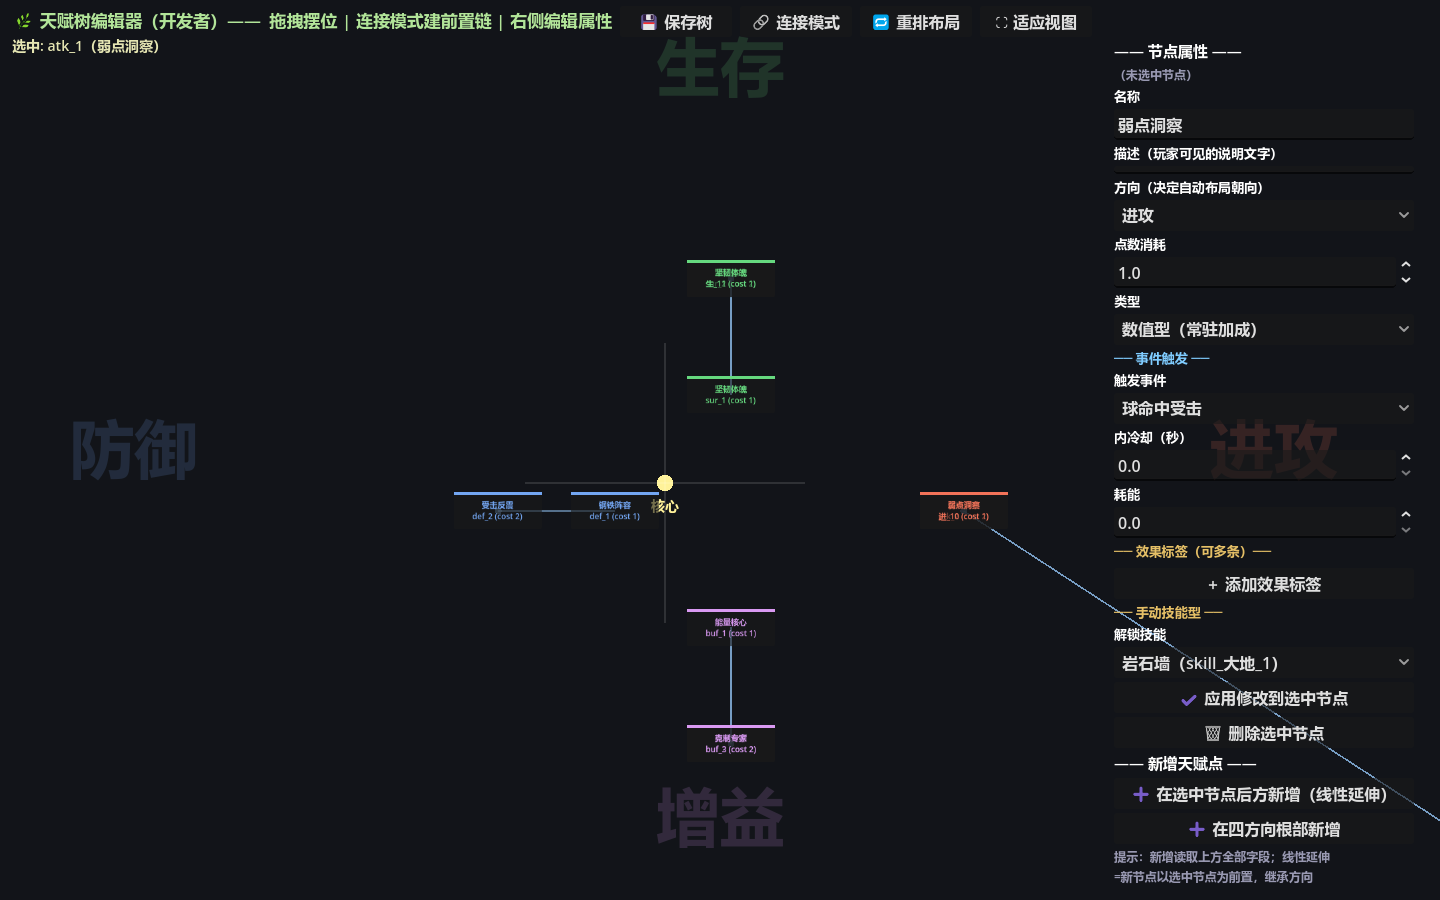
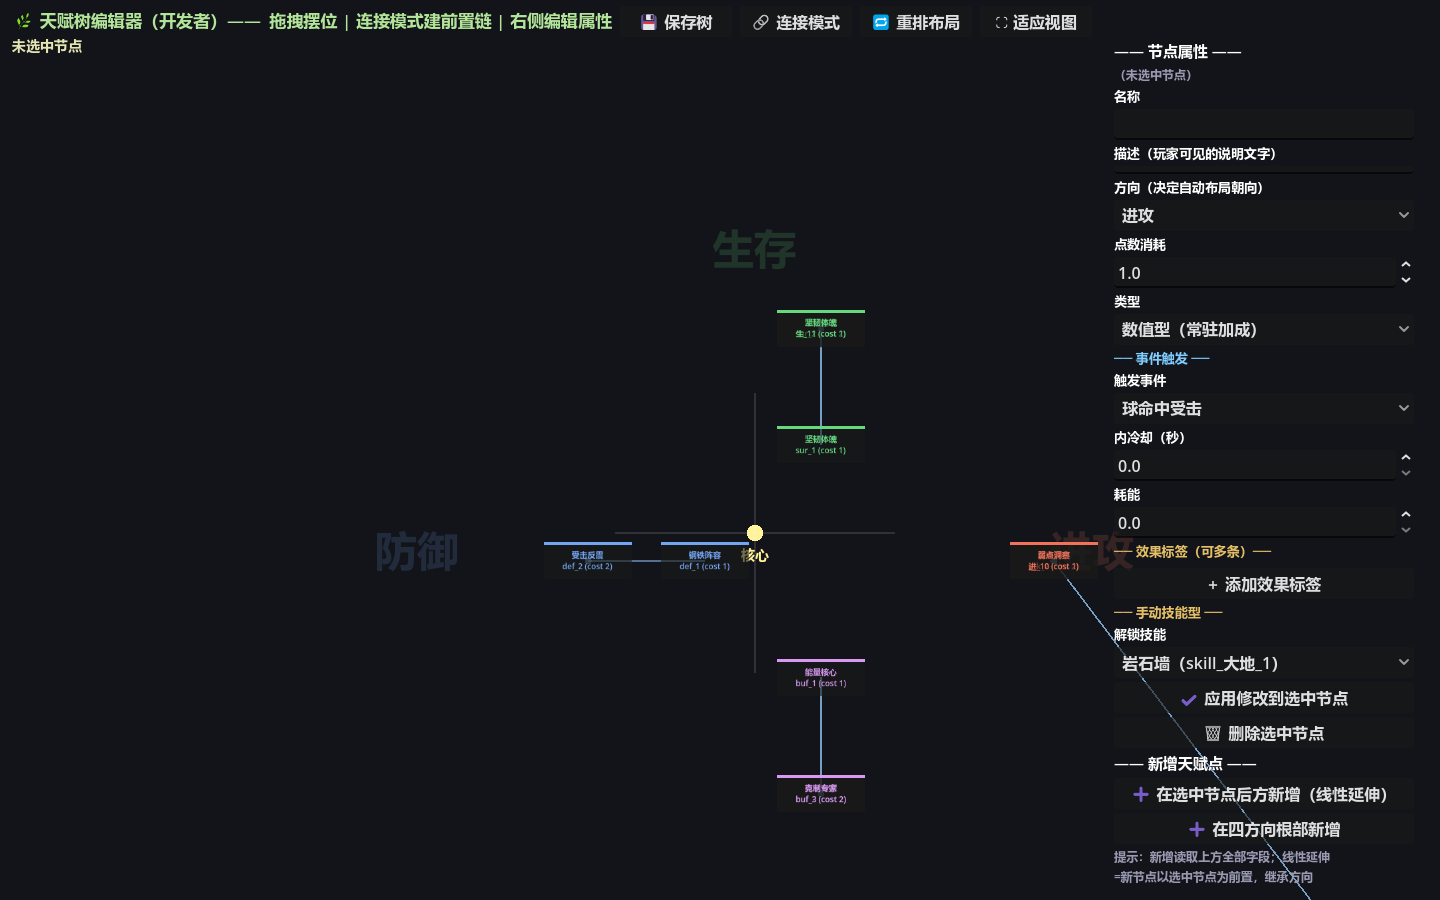
fix: 编辑器交互业界标准化
- 左键空白拖动=平移画布（此前无行为，用户误操作节点）
- 四方向大字/十字轴改世界层（随平移缩放整体移动，字号×zoom）
- 点空白松开=取消选中（面板同步清空）
- 合成输入六项验证 PASS

diff --git a/工作日志/2026-09-11.md b/工作日志/2026-09-11.md
@@ -390,3 +390,11 @@
 - 合成 InputEventMouseButton/Motion 走真实输入管线：拖节点（屏幕动+世界存）✅ / 中键平移 ✅ / 滚轮缩放 0.60→0.66 ✅ → RESULT: PASS
 - 修：统一输入改编辑器级 _input（先于 GUI 分发命中，Button 不再吞事件）；_send_wheel 被误粘截图退出块（测试脚本自身问题）
 - 根因链（主人报"鼠标不能拖拉"）：旧实现拖拽挂卡片 gui_input，画布全屏后事件被 Button 消费到不了画布 → 编辑器级 _input 命中测试根治
+
+### 40. 交互业界标准化（主人反馈：十字轴/大字不跟移、左键空白误操作节点瞬移）
+
+- **左键空白拖动 = 平移画布**（业内常规；此前左键空白无行为导致用户误以为"拉节点"）
+- **四方向大字/十字轴改世界层**：锚点=世界坐标，随平移/缩放整体移动，字号×zoom
+- **点空白松开 = 取消选中**（面板同步清空）
+- 合成输入六项验证全 PASS：拖节点/中键平移/滚轮缩放/左键空白平移/取消选中
+- "节点瞬移至鼠标位置"根因：用户左键拖空白期待平移但无行为+焦点错位综合观感；左键平移落地后语义自然
